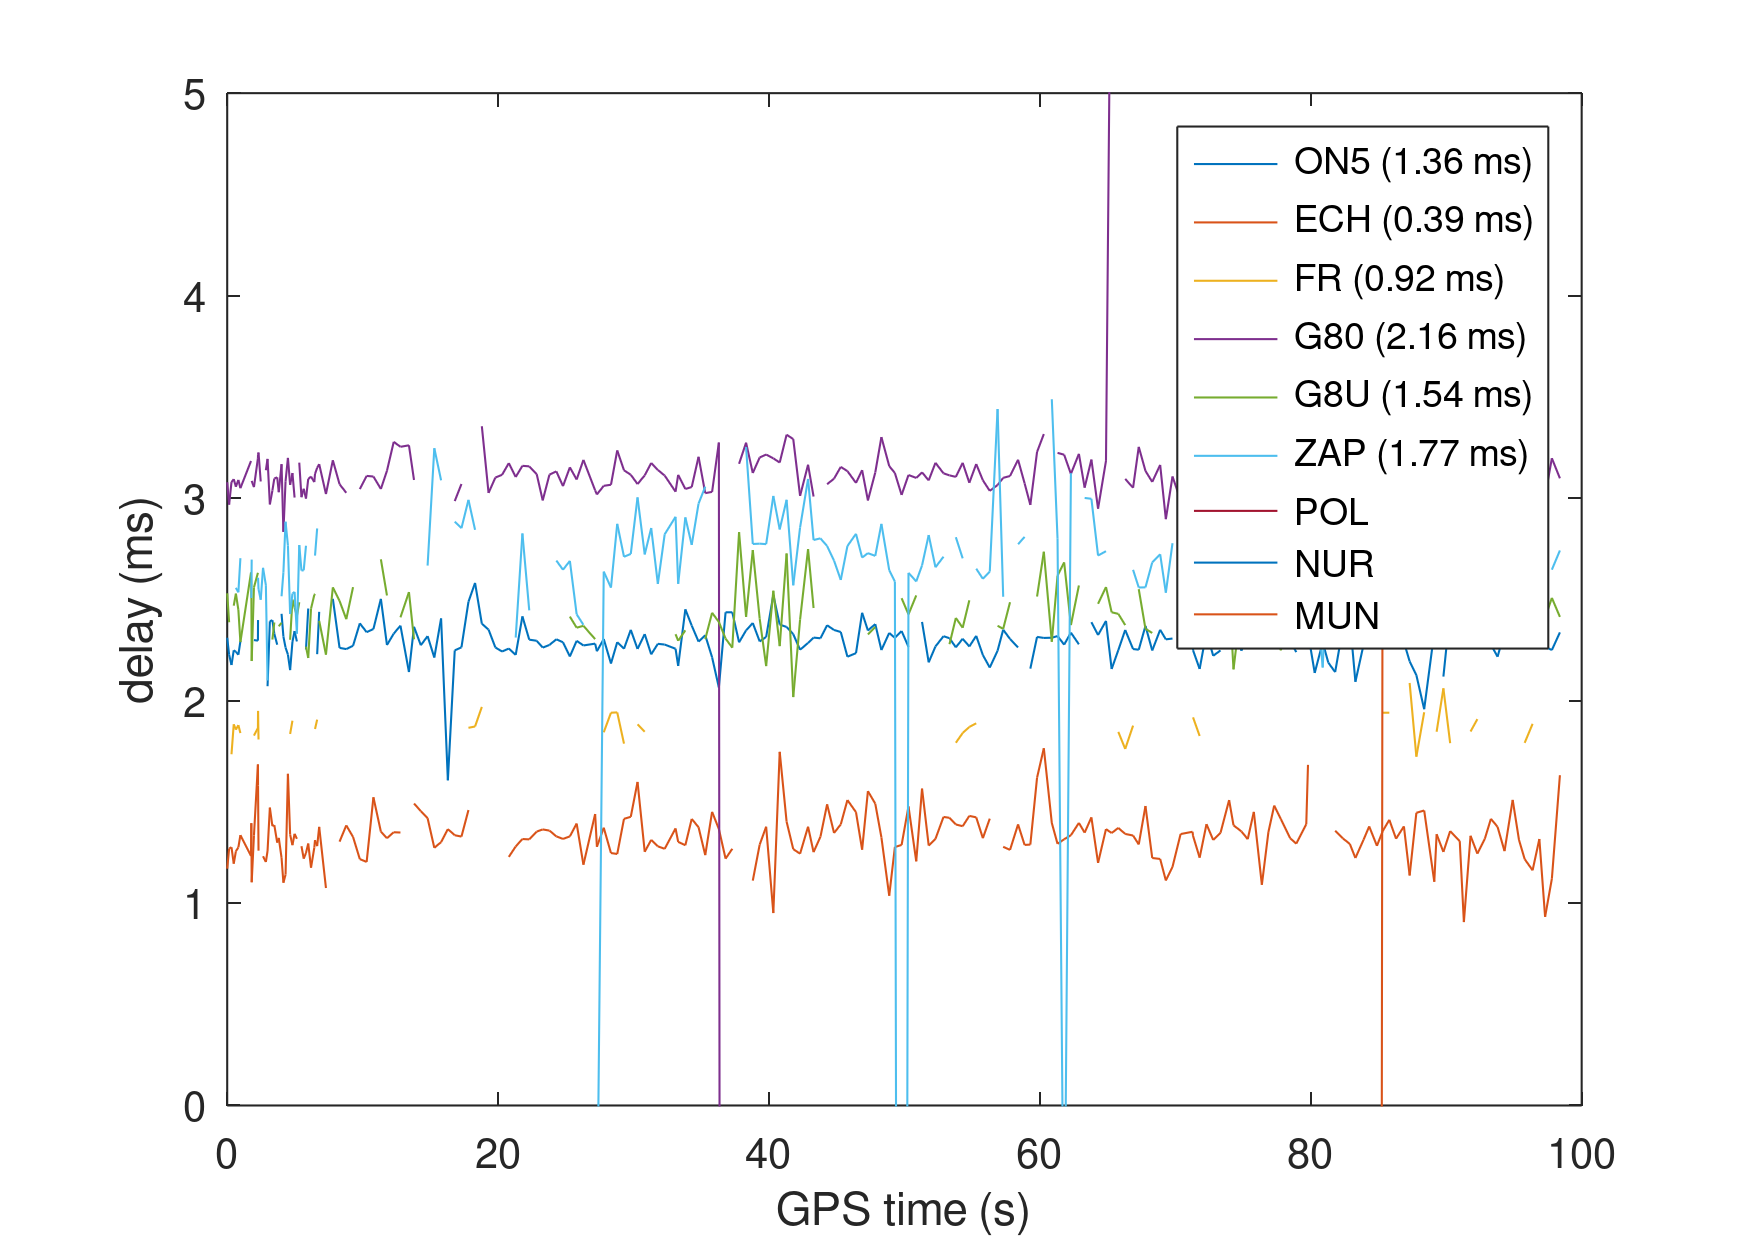
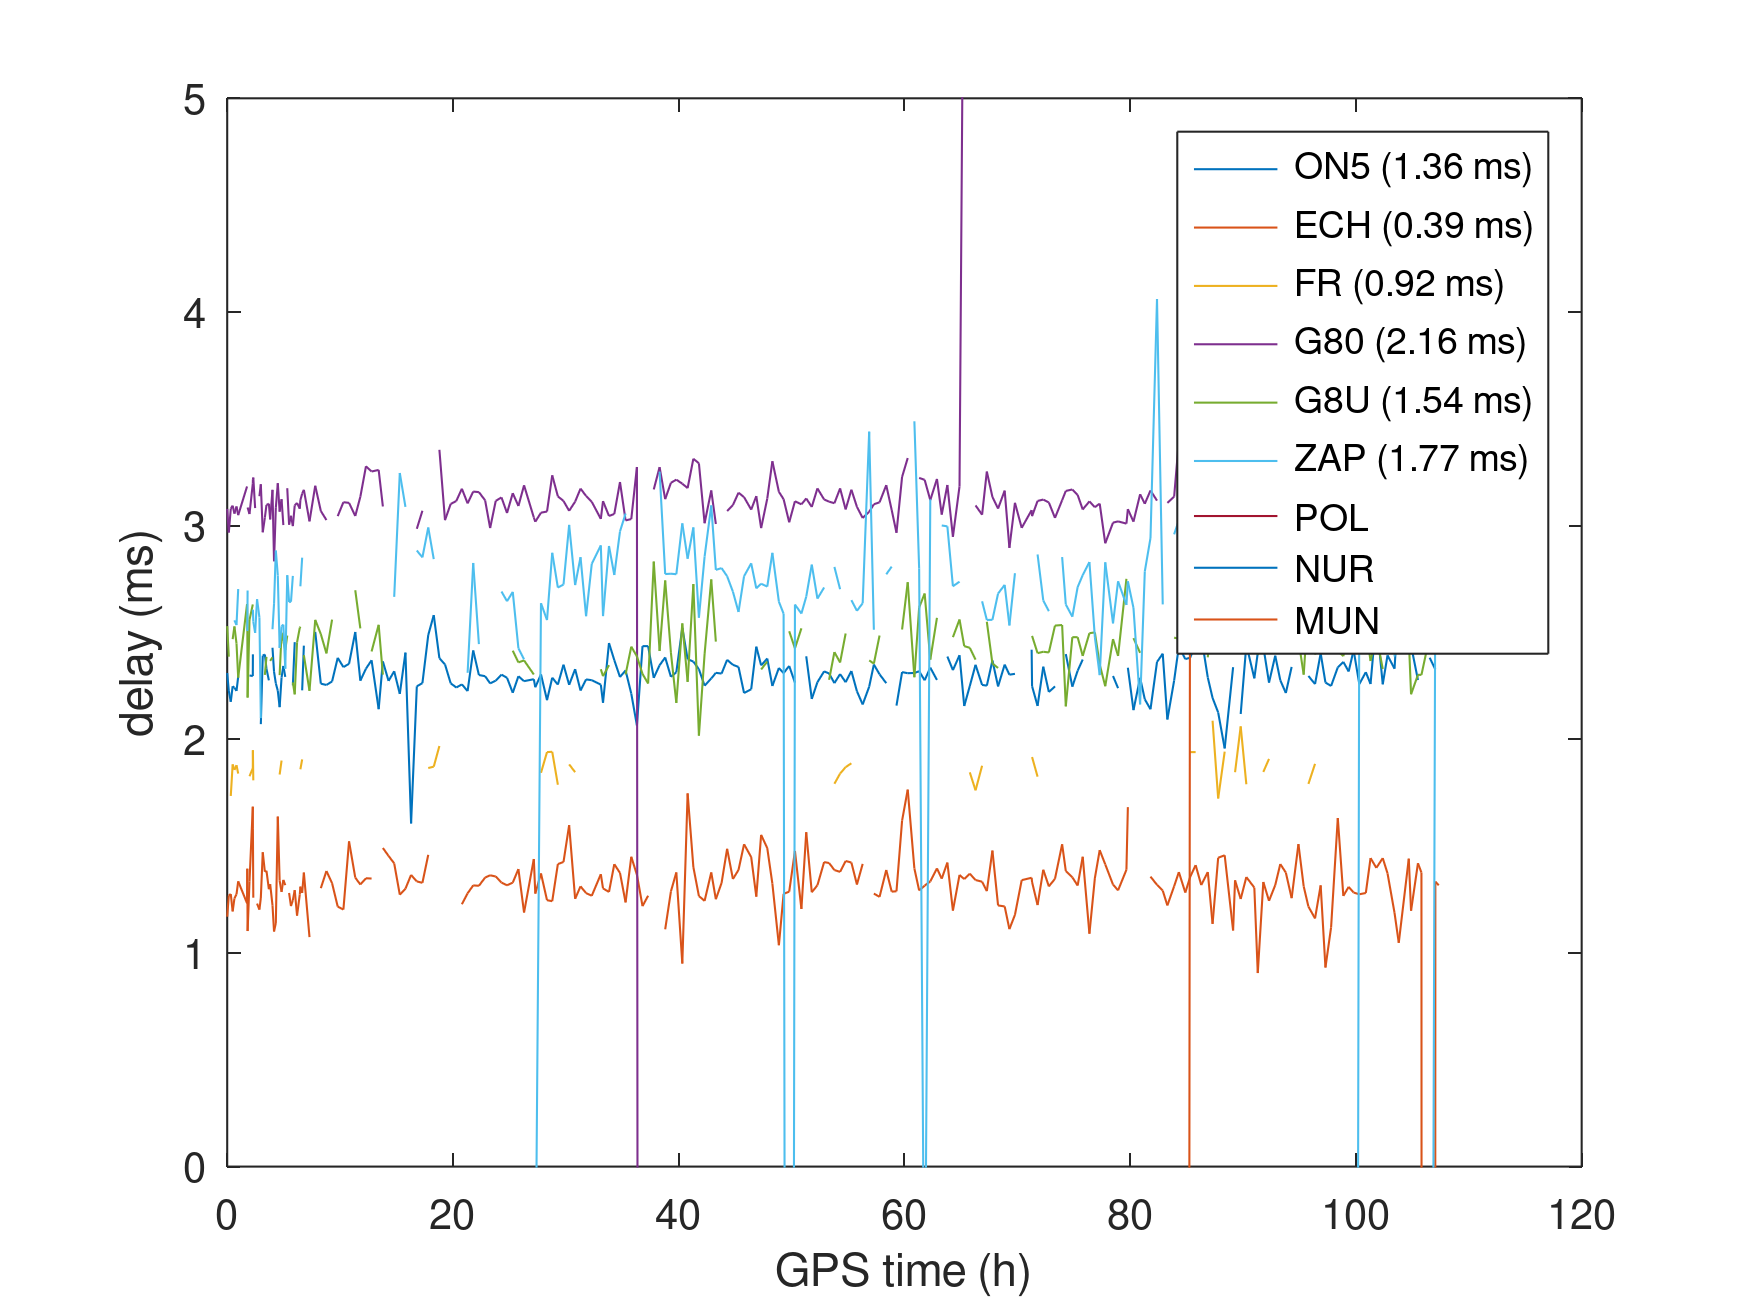
update figures with correct X axis

diff --git a/process_loran.m b/process_loran.m
@@ -43,13 +43,15 @@ for dirnum=1:length(dirname)
          subplot(511)
          plot(t(1:3*fs)-floor(t(1)),real(z(1:3*fs)));hold on
          plot(t(1:3*fs)-floor(t(1)),abs(z(1:3*fs)));
-         xlim([1 1.5])
+         xlim([1.15 1.27])
+         ylabel(dirname(dirnum).name)
       else
          if (dirnum<7)
             subplot(5,1,impos)
             plot(t(1:3*fs)-floor(t(1))+mod(((dt(dirnum)-dinit)/GRI/2),1)*GRI*2,real(z(1:3*fs)));hold on
             plot(t(1:3*fs)-floor(t(1))+mod(((dt(dirnum)-dinit)/GRI/2),1)*GRI*2,abs(z(1:3*fs)));
-            xlim([1 1.5])
+            xlim([1.15 1.27])
+            ylabel(dirname(dirnum).name)
             impos=impos+1;
          end
       end
